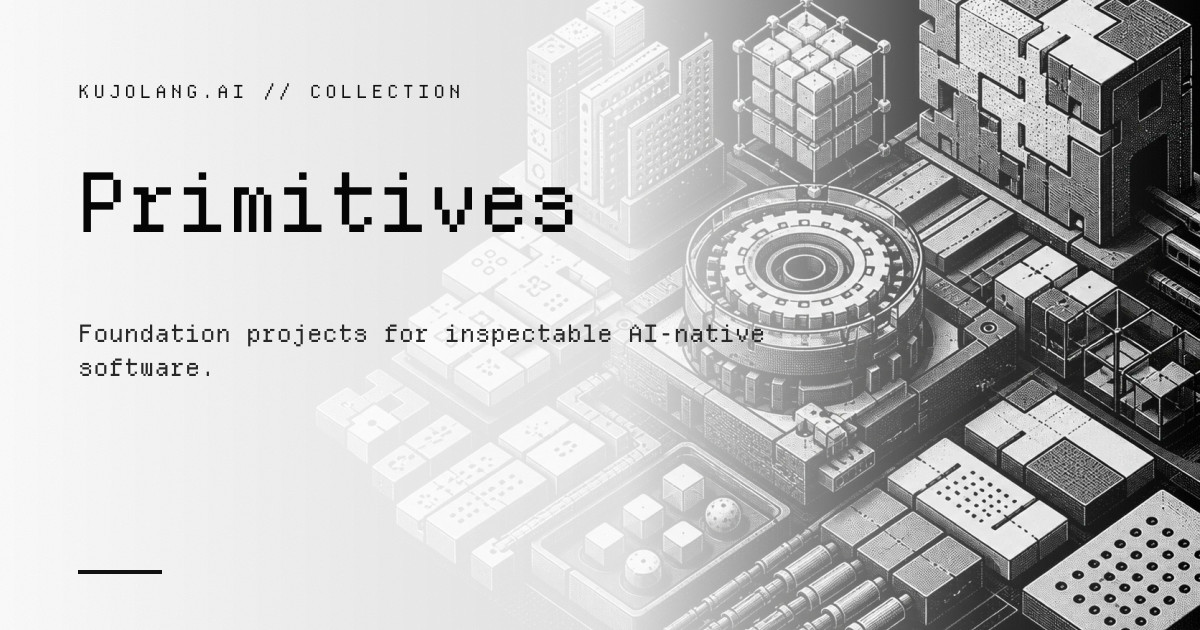
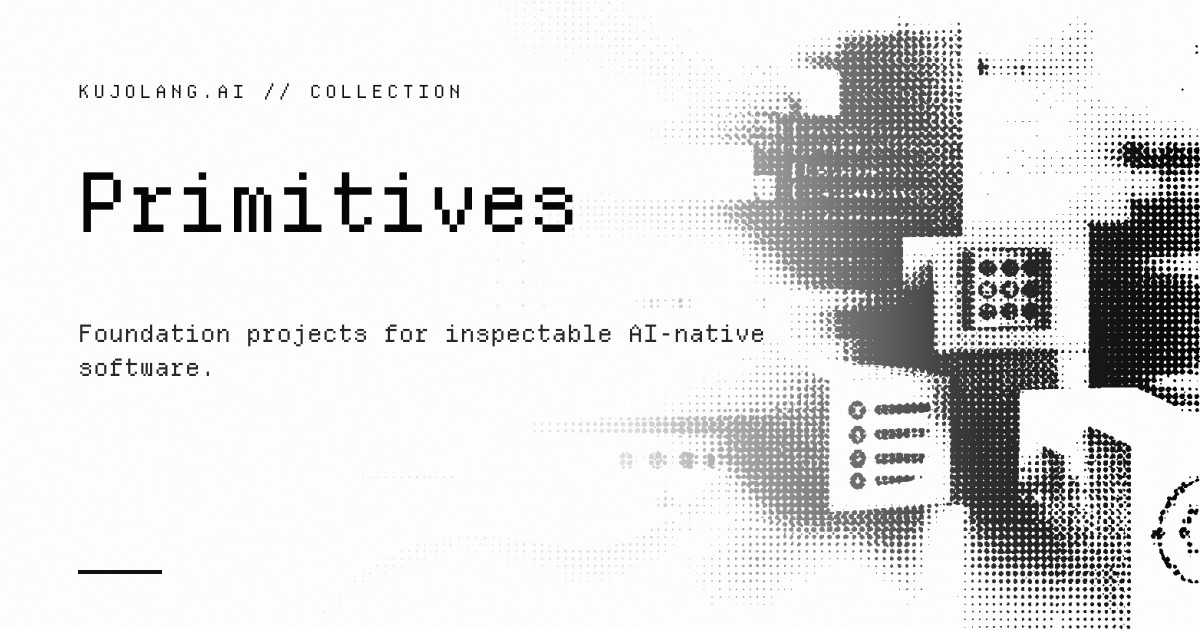
fix: align ecosystem heroes and carousel controls

diff --git a/templates/page-ecosystem.html b/templates/page-ecosystem.html
@@ -4,28 +4,28 @@
 		<div class="page-hero__wash" aria-hidden="true"></div>
 		<div class="sk-hero__inner"><div class="page-hero__copy"><h1>{{title}}</h1><p>Explore Kujo by layer, scan a focused selection in each carousel, then open the dedicated catalog for every released project.</p></div></div>
 	</header>
-	<section class="ecosystem-section section-shell" aria-labelledby="primitives-title">
-		<div class="ecosystem-section-heading"><div class="section-heading sk-heading"><p>01 / Foundation</p><h2 id="primitives-title">Primitives</h2><span>The language, package foundation, runtimes, SDKs, and reusable building blocks for reliable AI-native software.</span></div><a class="sk-button" data-variant="secondary" href="/ecosystem/primitives/">All primitives</a></div>
-		<div class="sk-carousel ecosystem-carousel" data-carousel aria-label="Primitive projects"><ul class="sk-carousel__track" data-carousel-track tabindex="0">{{primitive_cards}}</ul><div class="sk-carousel__controls"><button class="sk-button" data-variant="secondary" type="button" data-carousel-previous aria-label="Previous primitive projects">Previous</button><button class="sk-button" data-variant="secondary" type="button" data-carousel-next aria-label="Next primitive projects">Next</button></div></div>
+	<section class="ecosystem-section section-shell" aria-labelledby="primitives-title" data-carousel>
+		<div class="ecosystem-section-heading"><div class="section-heading sk-heading"><p>01 / Foundation</p><h2 id="primitives-title"><a class="ecosystem-section-title-link" href="/ecosystem/primitives/">Primitives</a></h2><span>The language, package foundation, runtimes, SDKs, and reusable building blocks for reliable AI-native software.</span></div><div class="sk-carousel__controls ecosystem-carousel-controls"><button class="sk-button" data-variant="secondary" type="button" data-carousel-previous aria-label="Previous primitive projects">&lt;</button><button class="sk-button" data-variant="secondary" type="button" data-carousel-next aria-label="Next primitive projects">&gt;</button></div></div>
+		<div class="sk-carousel ecosystem-carousel" aria-label="Primitive projects"><ul class="sk-carousel__track" data-carousel-track tabindex="0">{{primitive_cards}}</ul></div>
 	</section>
-	<section class="ecosystem-section section-shell" aria-labelledby="tooling-title">
-		<div class="ecosystem-section-heading"><div class="section-heading sk-heading"><p>02 / Operations</p><h2 id="tooling-title">Tooling</h2><span>Focused tools for context, execution, evidence, safety, interface delivery, architecture, release readiness, and human review.</span></div><a class="sk-button" data-variant="secondary" href="/ecosystem/tooling/">All tooling</a></div>
-		<div class="sk-carousel ecosystem-carousel" data-carousel aria-label="Ecosystem tools"><ul class="sk-carousel__track" data-carousel-track tabindex="0">{{tooling_cards}}</ul><div class="sk-carousel__controls"><button class="sk-button" data-variant="secondary" type="button" data-carousel-previous aria-label="Previous ecosystem tools">Previous</button><button class="sk-button" data-variant="secondary" type="button" data-carousel-next aria-label="Next ecosystem tools">Next</button></div></div>
+	<section class="ecosystem-section section-shell" aria-labelledby="tooling-title" data-carousel>
+		<div class="ecosystem-section-heading"><div class="section-heading sk-heading"><p>02 / Operations</p><h2 id="tooling-title"><a class="ecosystem-section-title-link" href="/ecosystem/tooling/">Tooling</a></h2><span>Focused tools for context, execution, evidence, safety, interface delivery, architecture, release readiness, and human review.</span></div><div class="sk-carousel__controls ecosystem-carousel-controls"><button class="sk-button" data-variant="secondary" type="button" data-carousel-previous aria-label="Previous ecosystem tools">&lt;</button><button class="sk-button" data-variant="secondary" type="button" data-carousel-next aria-label="Next ecosystem tools">&gt;</button></div></div>
+		<div class="sk-carousel ecosystem-carousel" aria-label="Ecosystem tools"><ul class="sk-carousel__track" data-carousel-track tabindex="0">{{tooling_cards}}</ul></div>
 	</section>
-	<section class="ecosystem-section section-shell" aria-labelledby="skills-title">
-		<div class="ecosystem-section-heading"><div class="section-heading sk-heading"><p>03 / Agent guidance</p><h2 id="skills-title">Skills</h2><span>Repository-backed operating guidance that helps agents use Kujo projects safely, consistently, and with current evidence.</span></div><a class="sk-button" data-variant="secondary" href="/ecosystem/skills/">All skills</a></div>
-		<div class="sk-carousel ecosystem-carousel" data-carousel aria-label="Kujo skills"><ul class="sk-carousel__track" data-carousel-track tabindex="0">{{skills_cards}}</ul><div class="sk-carousel__controls"><button class="sk-button" data-variant="secondary" type="button" data-carousel-previous aria-label="Previous Kujo skills">Previous</button><button class="sk-button" data-variant="secondary" type="button" data-carousel-next aria-label="Next Kujo skills">Next</button></div></div>
+	<section class="ecosystem-section section-shell" aria-labelledby="skills-title" data-carousel>
+		<div class="ecosystem-section-heading"><div class="section-heading sk-heading"><p>03 / Agent guidance</p><h2 id="skills-title"><a class="ecosystem-section-title-link" href="/ecosystem/skills/">Skills</a></h2><span>Repository-backed operating guidance that helps agents use Kujo projects safely, consistently, and with current evidence.</span></div><div class="sk-carousel__controls ecosystem-carousel-controls"><button class="sk-button" data-variant="secondary" type="button" data-carousel-previous aria-label="Previous Kujo skills">&lt;</button><button class="sk-button" data-variant="secondary" type="button" data-carousel-next aria-label="Next Kujo skills">&gt;</button></div></div>
+		<div class="sk-carousel ecosystem-carousel" aria-label="Kujo skills"><ul class="sk-carousel__track" data-carousel-track tabindex="0">{{skills_cards}}</ul></div>
 	</section>
-	<section class="ecosystem-section section-shell" aria-labelledby="workflows-title">
-		<div class="ecosystem-section-heading"><div class="section-heading sk-heading"><p>04 / Runnable proofs</p><h2 id="workflows-title">Workflows</h2><span>Local-first workflow kits with explicit inputs, approvals, evidence, recovery, and readiness boundaries.</span></div><a class="sk-button" data-variant="secondary" href="/ecosystem/workflows/">All workflows</a></div>
-		<div class="sk-carousel ecosystem-carousel" data-carousel aria-label="Kujo workflows"><ul class="sk-carousel__track" data-carousel-track tabindex="0">{{workflows_cards}}</ul><div class="sk-carousel__controls"><button class="sk-button" data-variant="secondary" type="button" data-carousel-previous aria-label="Previous Kujo workflows">Previous</button><button class="sk-button" data-variant="secondary" type="button" data-carousel-next aria-label="Next Kujo workflows">Next</button></div></div>
+	<section class="ecosystem-section section-shell" aria-labelledby="workflows-title" data-carousel>
+		<div class="ecosystem-section-heading"><div class="section-heading sk-heading"><p>04 / Runnable proofs</p><h2 id="workflows-title"><a class="ecosystem-section-title-link" href="/ecosystem/workflows/">Workflows</a></h2><span>Local-first workflow kits with explicit inputs, approvals, evidence, recovery, and readiness boundaries.</span></div><div class="sk-carousel__controls ecosystem-carousel-controls"><button class="sk-button" data-variant="secondary" type="button" data-carousel-previous aria-label="Previous Kujo workflows">&lt;</button><button class="sk-button" data-variant="secondary" type="button" data-carousel-next aria-label="Next Kujo workflows">&gt;</button></div></div>
+		<div class="sk-carousel ecosystem-carousel" aria-label="Kujo workflows"><ul class="sk-carousel__track" data-carousel-track tabindex="0">{{workflows_cards}}</ul></div>
 	</section>
-	<section class="ecosystem-section section-shell" aria-labelledby="agents-title">
-		<div class="ecosystem-section-heading"><div class="section-heading sk-heading"><p>05 / Agent systems</p><h2 id="agents-title">Agents</h2><span>Runtime primitives, orchestration, and mission-control patterns for agents that need clear authority, state, evidence, and recovery.</span></div><a class="sk-button" data-variant="secondary" href="https://agents.kujolang.ai" target="_blank" rel="noopener">Agents site<span class="visually-hidden"> (opens in a new tab)</span></a></div>
-		<div class="sk-carousel ecosystem-carousel" data-carousel aria-label="Agent systems"><ul class="sk-carousel__track" data-carousel-track tabindex="0">{{agent_cards}}</ul><div class="sk-carousel__controls"><button class="sk-button" data-variant="secondary" type="button" data-carousel-previous aria-label="Previous agent systems">Previous</button><button class="sk-button" data-variant="secondary" type="button" data-carousel-next aria-label="Next agent systems">Next</button></div></div>
+	<section class="ecosystem-section section-shell" aria-labelledby="agents-title" data-carousel>
+		<div class="ecosystem-section-heading"><div class="section-heading sk-heading"><p>05 / Agent systems</p><h2 id="agents-title"><a class="ecosystem-section-title-link" href="https://agents.kujolang.ai" target="_blank" rel="noopener">Agents<span class="visually-hidden"> (opens in a new tab)</span></a></h2><span>Runtime primitives, orchestration, and mission-control patterns for agents that need clear authority, state, evidence, and recovery.</span></div><div class="sk-carousel__controls ecosystem-carousel-controls"><button class="sk-button" data-variant="secondary" type="button" data-carousel-previous aria-label="Previous agent systems">&lt;</button><button class="sk-button" data-variant="secondary" type="button" data-carousel-next aria-label="Next agent systems">&gt;</button></div></div>
+		<div class="sk-carousel ecosystem-carousel" aria-label="Agent systems"><ul class="sk-carousel__track" data-carousel-track tabindex="0">{{agent_cards}}</ul></div>
 	</section>
-	<section class="ecosystem-section section-shell" aria-labelledby="showcase-title">
-		<div class="ecosystem-section-heading"><div class="section-heading sk-heading"><p>06 / Applications</p><h2 id="showcase-title">Showcase</h2><span>Complete, inspectable examples that demonstrate how Kujo projects work together in real applications.</span></div><a class="sk-button" data-variant="secondary" href="/ecosystem/showcase/">All showcases</a></div>
-		<div class="sk-carousel ecosystem-carousel" data-carousel aria-label="Application showcases"><ul class="sk-carousel__track" data-carousel-track tabindex="0">{{showcase_cards}}</ul><div class="sk-carousel__controls"><button class="sk-button" data-variant="secondary" type="button" data-carousel-previous aria-label="Previous application showcases">Previous</button><button class="sk-button" data-variant="secondary" type="button" data-carousel-next aria-label="Next application showcases">Next</button></div></div>
+	<section class="ecosystem-section section-shell" aria-labelledby="showcase-title" data-carousel>
+		<div class="ecosystem-section-heading"><div class="section-heading sk-heading"><p>06 / Applications</p><h2 id="showcase-title"><a class="ecosystem-section-title-link" href="/ecosystem/showcase/">Showcase</a></h2><span>Complete, inspectable examples that demonstrate how Kujo projects work together in real applications.</span></div><div class="sk-carousel__controls ecosystem-carousel-controls"><button class="sk-button" data-variant="secondary" type="button" data-carousel-previous aria-label="Previous application showcases">&lt;</button><button class="sk-button" data-variant="secondary" type="button" data-carousel-next aria-label="Next application showcases">&gt;</button></div></div>
+		<div class="sk-carousel ecosystem-carousel" aria-label="Application showcases"><ul class="sk-carousel__track" data-carousel-track tabindex="0">{{showcase_cards}}</ul></div>
 	</section>
 </main>

diff --git a/assets/css/style.css b/assets/css/style.css
@@ -788,7 +788,7 @@
 
   .ecosystem-section-heading {
     display: flex;
-    align-items: end;
+    align-items: start;
     justify-content: space-between;
     gap: var(--sk-space-6);
     margin-block-end: var(--sk-space-8);
@@ -798,8 +798,29 @@
     margin-block-end: 0;
   }
 
-  .ecosystem-section-heading > .sk-button {
+  .ecosystem-section-title-link,
+  .ecosystem-section-title-link:hover {
+    color: inherit;
+    text-decoration: none;
+  }
+
+  .ecosystem-section-title-link:focus-visible {
+    outline: var(--sk-focus-width) solid var(--sk-focus-ring);
+    outline-offset: var(--sk-focus-offset);
+  }
+
+  .ecosystem-carousel-controls {
     flex: 0 0 auto;
+    justify-content: flex-end;
+    margin-inline-start: auto;
+    padding-block-start: var(--sk-space-6);
+  }
+
+  .ecosystem-carousel-controls .sk-button {
+    min-inline-size: var(--sk-size-control-sm);
+    padding-inline: var(--sk-space-3);
+    font-family: var(--sk-font-mono);
+    font-size: var(--sk-type-size-lg);
   }
 
   .ecosystem-carousel {
@@ -823,11 +844,7 @@
     scroll-snap-align: start;
   }
 
-  .ecosystem-carousel .sk-carousel__controls {
-    justify-content: space-between;
-  }
-
-  .ecosystem-carousel .sk-carousel__controls button:disabled {
+  .ecosystem-carousel-controls button:disabled {
     opacity: .38;
     cursor: not-allowed;
   }
@@ -1046,11 +1063,6 @@
   }
 
   @media (max-width: 48rem) {
-    .ecosystem-section-heading {
-      align-items: start;
-      flex-direction: column;
-    }
-
     .ecosystem-carousel .sk-carousel__track {
       grid-auto-columns: min(84%, 19rem);
     }

diff --git a/templates/page-ecosystem-section.html b/templates/page-ecosystem-section.html
@@ -1,6 +1,6 @@
 <main class="content-page ecosystem-index ecosystem-section-index" id="main-content">
 	<header class="page-hero sk-hero" data-layout="split">
-		<div class="page-hero__media" aria-hidden="true"><img src="{{hero}}" alt="" class="featured-image" width="1672" height="941" loading="eager" decoding="async" fetchpriority="high"></div>
+		<div class="page-hero__media" aria-hidden="true"><img src="{{hero}}" alt="" class="featured-image" width="1916" height="821" loading="eager" decoding="async" fetchpriority="high"></div>
 		<div class="page-hero__wash" aria-hidden="true"></div>
 		<div class="sk-hero__inner"><div class="page-hero__copy"><p class="sk-badge" data-variant="outline">{{eyebrow}}</p><h1>{{title}}</h1><p>{{intro}}</p><div class="sk-hero__actions"><a class="sk-button" data-variant="secondary" href="/ecosystem/">Ecosystem overview</a></div></div></div>
 	</header>

diff --git a/assets/js/site.js b/assets/js/site.js
@@ -423,7 +423,7 @@
 
     function wrapTextNode(node) {
       var parent = node.parentElement;
-      if (!parent || !node.nodeValue.trim() || parent.closest(selector) || parent.closest('[data-scramble-skip]')) return;
+      if (!parent || !node.nodeValue.trim() || parent.closest(selector) || parent.closest('[data-scramble-skip], .ecosystem-carousel-controls')) return;
       if (/^(SCRIPT|STYLE|NOSCRIPT|TEMPLATE|SVG)$/i.test(parent.tagName) || !usesMonoFont(parent)) return;
 
       var match = node.nodeValue.match(/^(\s*)([\s\S]*?)(\s*)$/);
